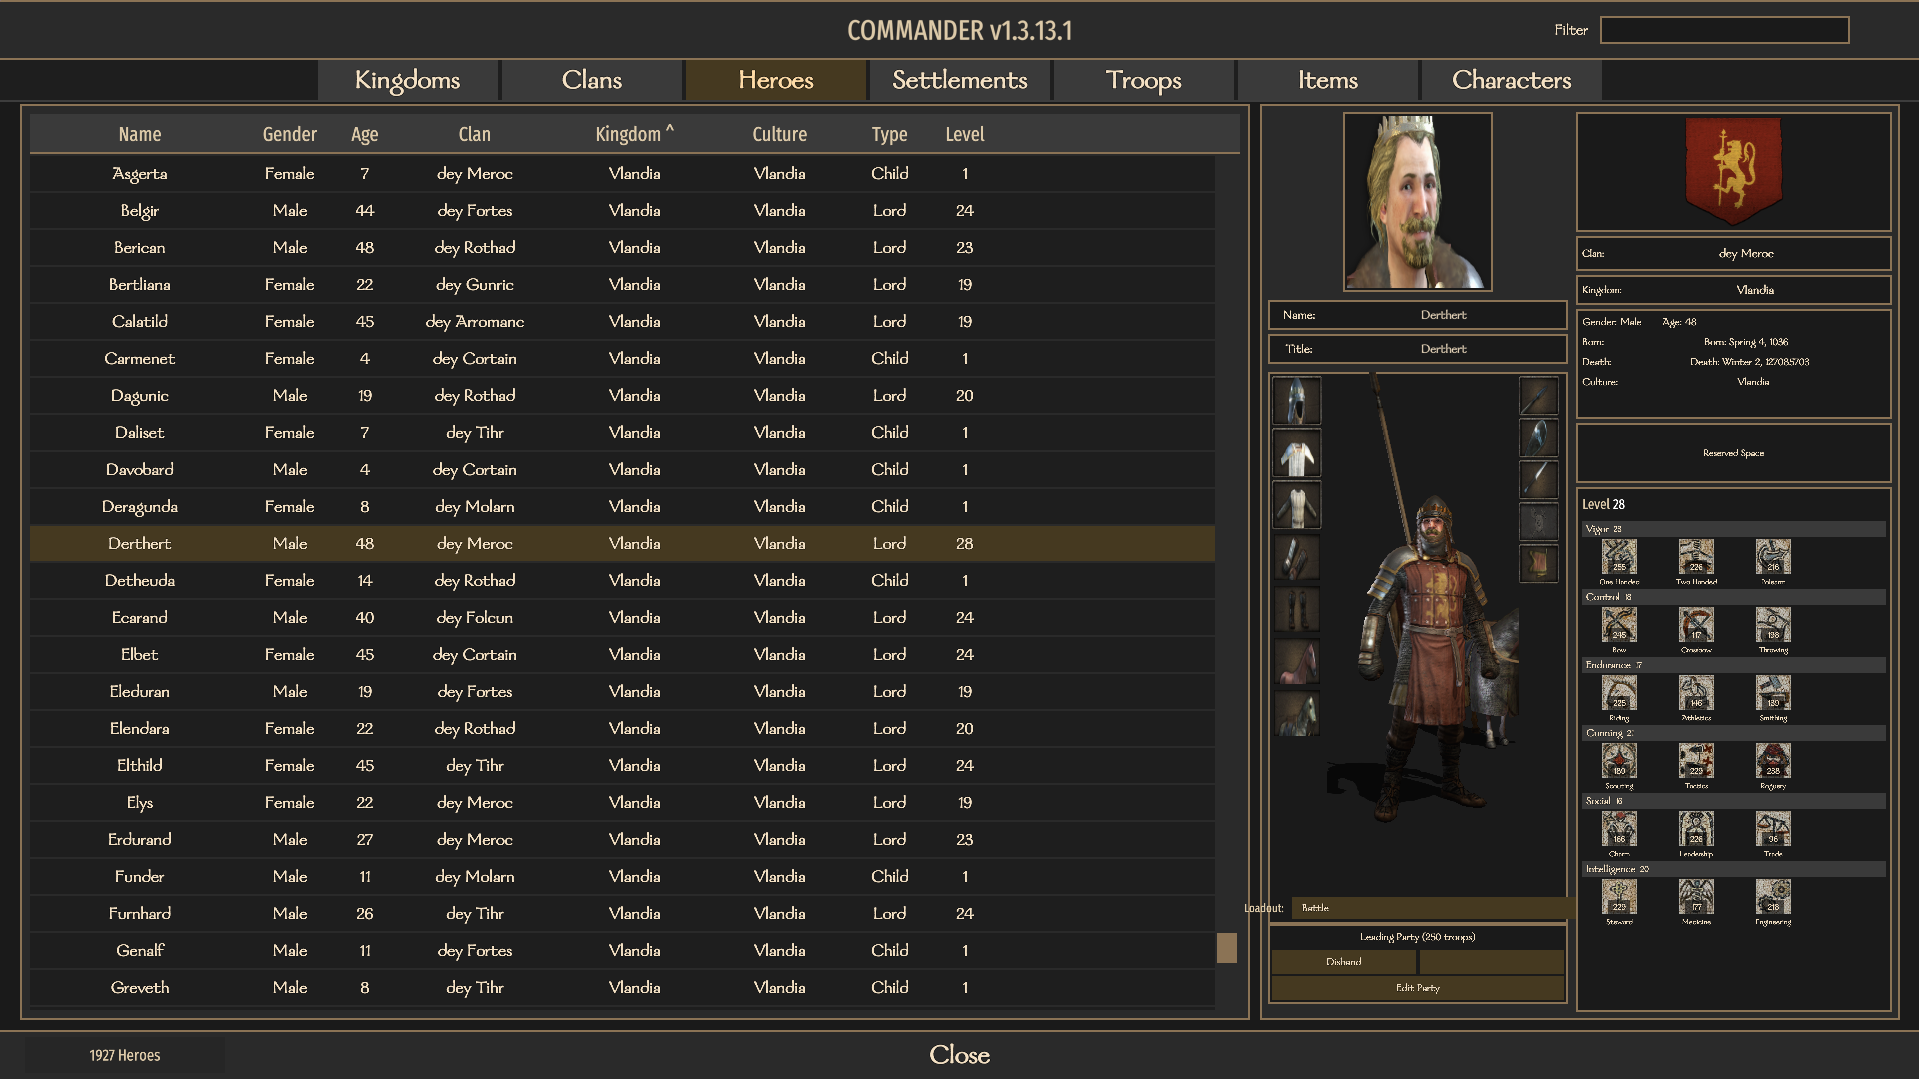
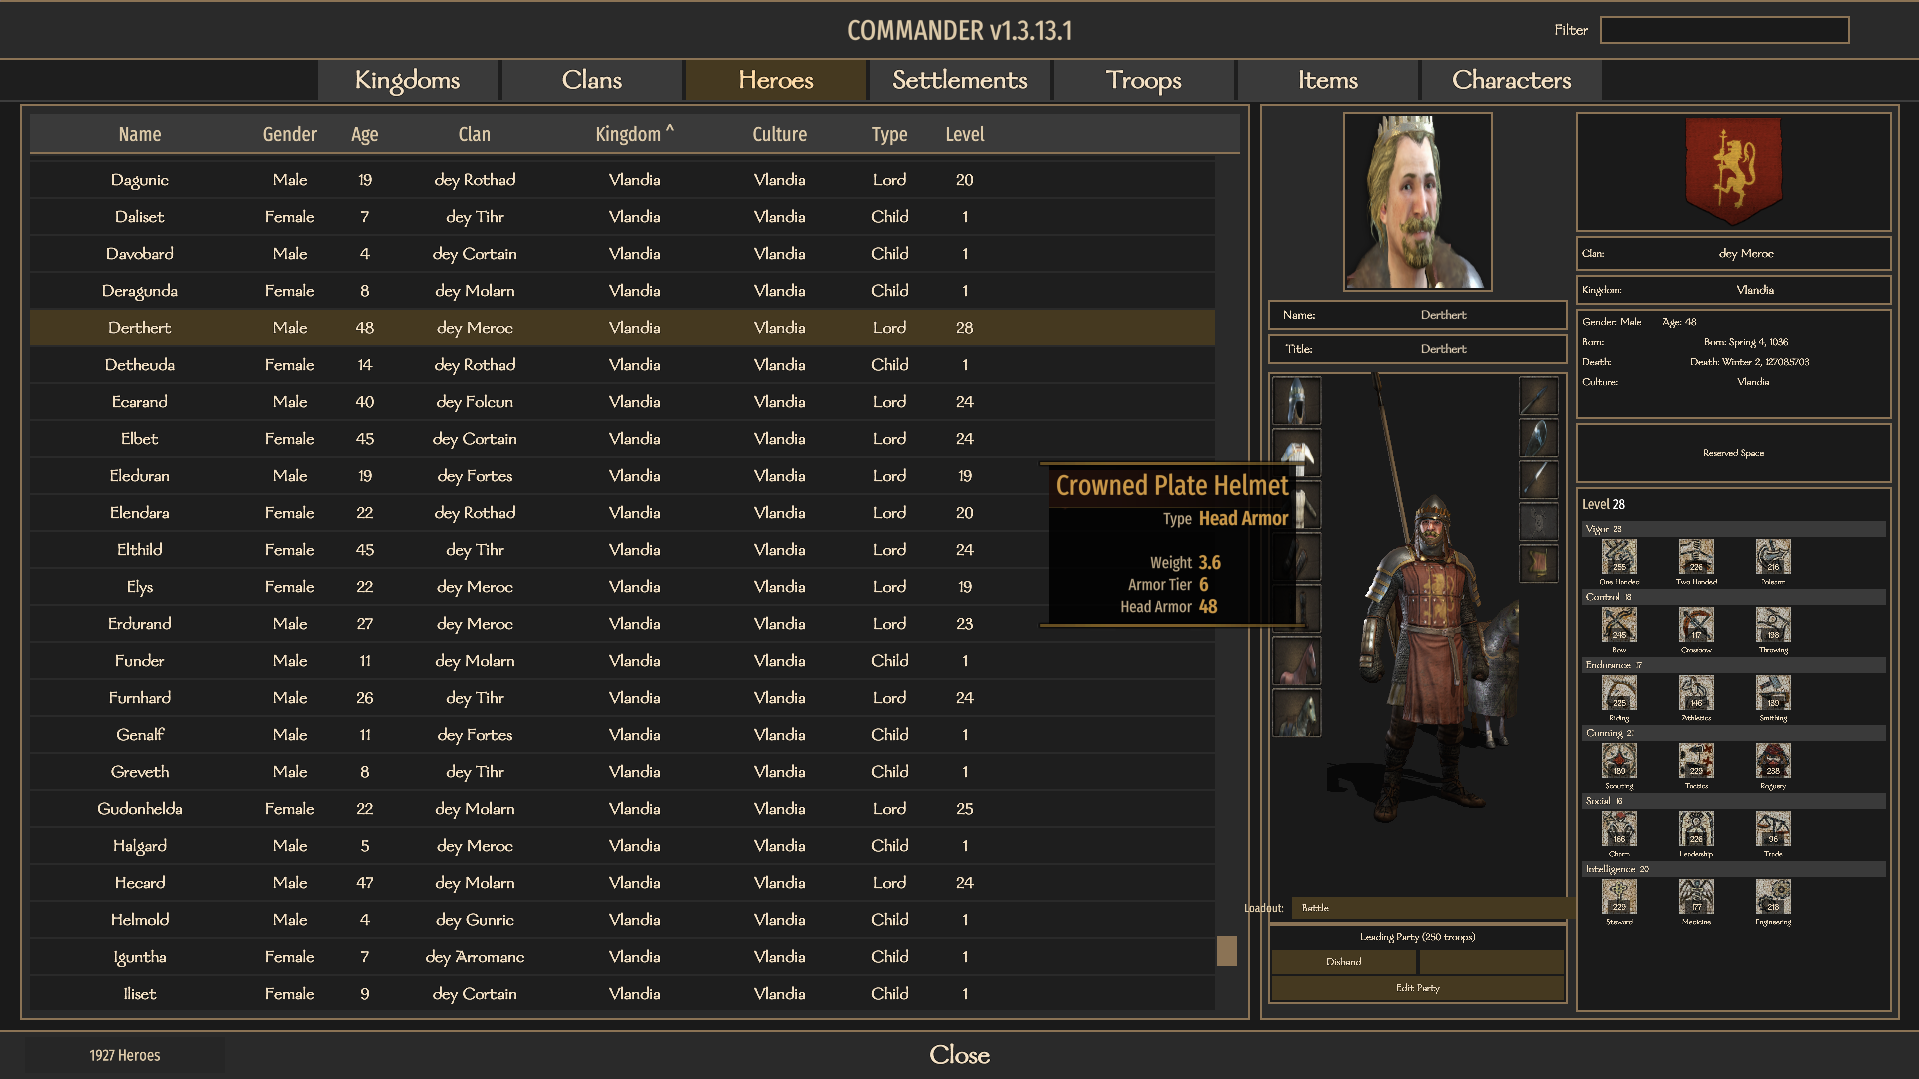
Fixed item tooltips not showing

diff --git a/Bannerlord.Commander/UI/Widgets/CommanderEquipmentSlotWidget.cs b/Bannerlord.Commander/UI/Widgets/CommanderEquipmentSlotWidget.cs
@@ -1,22 +1,25 @@
+using TaleWorlds.Core;
 using TaleWorlds.GauntletUI;
 using TaleWorlds.GauntletUI.BaseTypes;
+using TaleWorlds.Library;
 using TaleWorlds.MountAndBlade.GauntletUI.Widgets;
 
 namespace Bannerlord.Commander.UI.Widgets
 {
     /// <summary>
-    /// Custom equipment slot widget that renders backgrounds and manages selection state.
-    /// Follows the native InventoryEquippedItemSlotWidget pattern exactly.
-    ///
-    /// Click handling is via Command.Click on parent Widget (not ButtonWidget).
-    /// Preserves async item loading by keeping ImageIdentifierWidget as child.
+    /// Custom equipment slot widget that extends ButtonWidget for native hover and click support.<br />
+    /// Key features:<br />
+    /// - Extends ButtonWidget for native Command.Click and hover support<br />
+    /// - Handles tooltips directly in OnHoverBegin/OnHoverEnd via InformationManager<br />
+    /// - Manages background visual state (Default/Selected)
     /// </summary>
-    public class CommanderEquipmentSlotWidget : Widget
+    public class CommanderEquipmentSlotWidget : ButtonWidget
     {
         private Widget _background;
         private ImageIdentifierWidget _imageIdentifier;
         private bool _isSelected;
         private bool _lastSelectedState;
+        private EquipmentElement _equipmentElement;
 
         public CommanderEquipmentSlotWidget(UIContext context) : base(context)
         {
@@ -33,6 +36,33 @@ namespace Bannerlord.Commander.UI.Widgets
                 _background.SetState(_isSelected ? "Selected" : "Default");
                 _lastSelectedState = _isSelected;
             }
+        }
+
+        /// <summary>
+        /// Called when the mouse begins hovering over this widget.
+        /// Shows item tooltip directly using InformationManager.
+        /// Follows native InventoryItemButtonWidget pattern.
+        /// </summary>
+        protected override void OnHoverBegin()
+        {
+            base.OnHoverBegin();
+
+            // Show tooltip if we have a valid item
+            if (!_equipmentElement.IsEmpty && _equipmentElement.Item != null)
+            {
+                InformationManager.ShowTooltip(typeof(ItemObject), new object[] { _equipmentElement });
+            }
+        }
+
+        /// <summary>
+        /// Called when the mouse stops hovering over this widget.
+        /// Hides any active tooltip.
+        /// Follows native InventoryItemButtonWidget pattern.
+        /// </summary>
+        protected override void OnHoverEnd()
+        {
+            base.OnHoverEnd();
+            InformationManager.HideTooltip();
         }
 
         /// <summary>
@@ -89,15 +119,15 @@ namespace Bannerlord.Commander.UI.Widgets
                     {
                         _imageIdentifier.PropertyChanged -= ImageIdentifierOnPropertyChanged;
                     }
-                    
+
                     _imageIdentifier = value;
-                    
+
                     // Subscribe to new widget
                     if (_imageIdentifier != null)
                     {
                         _imageIdentifier.PropertyChanged += ImageIdentifierOnPropertyChanged;
                     }
-                    
+
                     OnPropertyChanged<ImageIdentifierWidget>(value, nameof(ImageIdentifier));
                 }
             }
@@ -109,7 +139,7 @@ namespace Bannerlord.Commander.UI.Widgets
         /// Bound to ViewModel's IsSelected property.
         /// </summary>
         [Editor(false)]
-        public bool IsSelected
+        public new bool IsSelected
         {
             get => _isSelected;
             set
@@ -118,6 +148,26 @@ namespace Bannerlord.Commander.UI.Widgets
                 {
                     _isSelected = value;
                     OnPropertyChanged(value, nameof(IsSelected));
+                }
+            }
+        }
+
+        /// <summary>
+        /// The equipment element in this slot.
+        /// Used directly by the widget to show tooltips on hover.
+        /// Bound from ViewModel's EquipmentElement property via XML binding.
+        /// </summary>
+        [Editor(false)]
+        public EquipmentElement EquipmentElement
+        {
+            get => _equipmentElement;
+            set
+            {
+                if (!_equipmentElement.Equals(value))
+                {
+                    _equipmentElement = value;
+                    // Note: Cannot use OnPropertyChanged<T> for struct types (CS0452)
+                    // This property is used for tooltip display, not UI binding
                 }
             }
         }

diff --git a/Bannerlord.Commander/UI/ViewModels/HeroEditor/EquipmentSlotVM.cs b/Bannerlord.Commander/UI/ViewModels/HeroEditor/EquipmentSlotVM.cs
@@ -1,5 +1,6 @@
 using TaleWorlds.Core;
 using TaleWorlds.Core.ViewModelCollection.ImageIdentifiers;
+using TaleWorlds.Core.ViewModelCollection.Information;
 using TaleWorlds.Library;
 
 namespace Bannerlord.Commander.UI.ViewModels.HeroEditor
@@ -13,6 +14,7 @@ namespace Bannerlord.Commander.UI.ViewModels.HeroEditor
         #region Private Fields
 
         private EquipmentIndex _slotIndex;
+        private EquipmentElement _equipmentElement;
         private string _slotName;
         private string _itemName;
         private bool _hasItem;
@@ -65,6 +67,7 @@ namespace Bannerlord.Commander.UI.ViewModels.HeroEditor
         public void RefreshWith(EquipmentIndex index, EquipmentElement element)
         {
             _slotIndex = index;
+            _equipmentElement = element;
             SlotName = GetSlotName(index);
             EmptySlotSprite = GetEmptySlotSprite(index);
 
@@ -75,7 +78,6 @@ namespace Bannerlord.Commander.UI.ViewModels.HeroEditor
                 ItemModifier = element.ItemModifier != null ? 1 : 0;
 
                 // Create ItemImageIdentifierVM ONLY when we have a valid item
-                // This is the key fix - native game never creates ImageIdentifier for empty slots
                 ImageIdentifier = new ItemImageIdentifierVM(element.Item, "");
             }
             else
@@ -87,6 +89,31 @@ namespace Bannerlord.Commander.UI.ViewModels.HeroEditor
                 // Set to null for empty slots - prevents ItemImageTextureProvider crash
                 ImageIdentifier = null;
             }
+        }
+
+        /// <summary>
+        /// Shows the native item tooltip with full item details (stats, armor values, etc.)
+        /// Called by Command.HoverBegin in the Gauntlet XML.
+        /// Uses the native InformationManager.ShowTooltip system for rich item tooltips.
+        /// </summary>
+        public void ExecuteShowItemTooltip()
+        {
+            // Show tooltip if we have a valid item
+            // CRITICAL: Must use typeof(ItemObject), not typeof(EquipmentElement)
+            // The tooltip system is registered for ItemObject, but expects EquipmentElement in args
+            if (!_equipmentElement.IsEmpty && _equipmentElement.Item != null)
+            {
+                InformationManager.ShowTooltip(typeof(ItemObject), new object[] { _equipmentElement });
+            }
+        }
+
+        /// <summary>
+        /// Hides the item tooltip.
+        /// Called by Command.HoverEnd in the Gauntlet XML.
+        /// </summary>
+        public void ExecuteHideItemTooltip()
+        {
+            InformationManager.HideTooltip();
         }
 
         /// <summary>
@@ -177,7 +204,7 @@ namespace Bannerlord.Commander.UI.ViewModels.HeroEditor
 
         /// <summary>
         /// Gets the image identifier for displaying the item icon.
-        /// NULL when slot is empty - this is the key to preventing the crash.
+        /// NULL when slot is empty - preventings crash.
         /// </summary>
         [DataSourceProperty]
         public ItemImageIdentifierVM ImageIdentifier
@@ -247,6 +274,14 @@ namespace Bannerlord.Commander.UI.ViewModels.HeroEditor
                 }
             }
         }
+
+        /// <summary>
+        /// Gets the equipment element for this slot.
+        /// Bound directly to CommanderEquipmentSlotWidget for tooltip display.
+        /// Widget handles tooltips in OnHoverBegin/OnHoverEnd using this value.
+        /// </summary>
+        [DataSourceProperty]
+        public EquipmentElement EquipmentElement => _equipmentElement;
 
         #endregion
 
